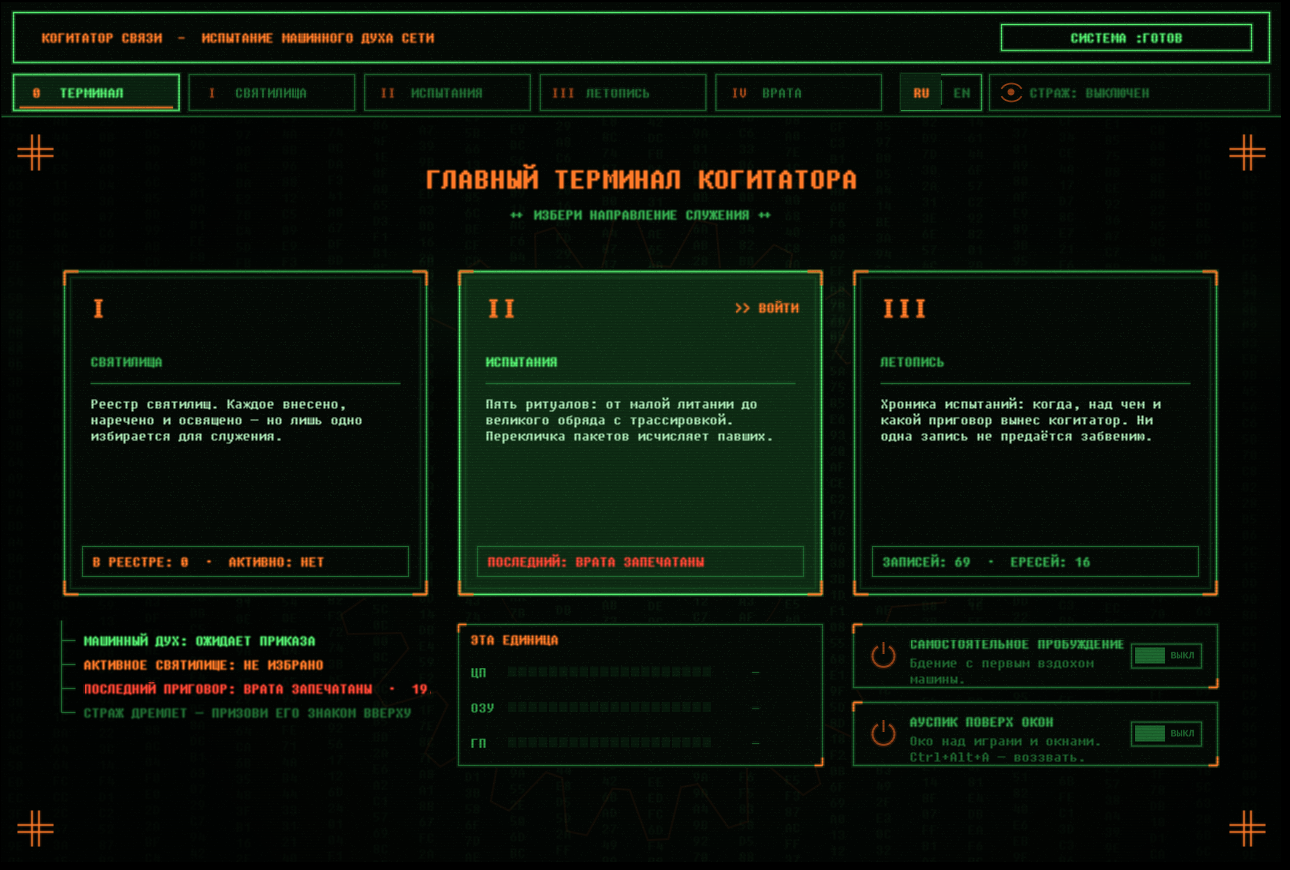
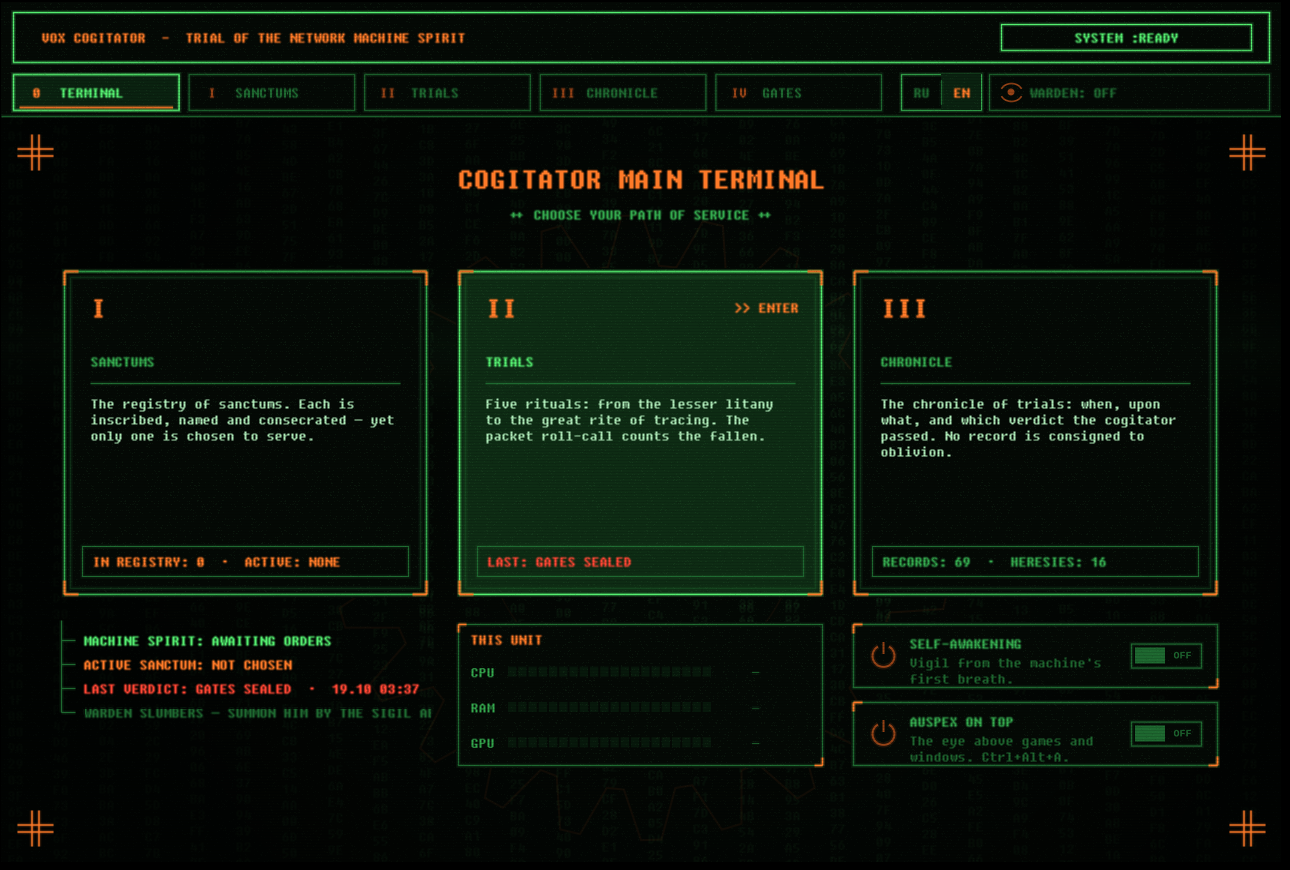
English README and screenshot

diff --git a/README.md b/README.md
@@ -1,27 +1,22 @@
-# Vox Cogitator · Когитатор Связи
+# Vox Cogitator
 
-Диагностика сети и VPN для Windows в духе старого ЭЛТ-терминала.
-Network & VPN diagnostics for Windows with a CRT soul.
+Network diagnostics for Windows with the soul of an old CRT terminal.
 
 ![Terminal](docs/home.png)
 
-Когитатор ищет, где рвётся связь: дома, у провайдера, на VPN-сервере или по пути до него. Ритуалы проверяют сеть и туннель и выносят приговор, сонар и Ауспик следят за пингом в фоне, Страж сообщает о падениях, летопись хранит историю. Сетевые настройки он не трогает — только смотрит.
+The cogitator finds where your connection breaks — your home network, your provider, a remote server or the path in between. Rituals test the link and pass a verdict, the sonar and the Auspex watch latency in the background, the Warden raises the alarm when the link falls, and the Chronicle keeps every verdict. It never changes your network settings — it only observes.
 
-It finds where the link breaks — at home, at the ISP, on the VPN server or along the path — and keeps a chronicle of every verdict. It never changes network settings.
+## Run
 
-## Запуск · Run
+Download `Cogitator.exe` from [Releases](../../releases) and run it — no installation needed (Windows 10/11).
+The file is unsigned, so SmartScreen may warn you: click "More info → Run anyway".
 
-Скачай `Cogitator.exe` из [Releases](../../releases) и запусти — установка не нужна (Windows 10/11).
-Файл не подписан: если SmartScreen предупредит, нажми «Подробнее → Выполнить в любом случае».
-
-Download `Cogitator.exe` from [Releases](../../releases) and run it. If SmartScreen warns: "More info → Run anyway".
-
-## Сборка · Build
+## Build
 
 ```
 dotnet build -c Release -o out
 ```
 
-## Лицензия · License
+## License
 
-[MIT](LICENSE) © KeRR · шрифты / fonts: [LICENSE-FONTS](assets/fonts/LICENSE-FONTS.md)
+[MIT](LICENSE) © KeRR · fonts: [LICENSE-FONTS](assets/fonts/LICENSE-FONTS.md)

diff --git a/assets/fonts/LICENSE-FONTS.md b/assets/fonts/LICENSE-FONTS.md
@@ -1,4 +1,4 @@
-# Fonts / Шрифты
+# Fonts
 
 Both fonts are embedded into `Cogitator.exe` as resources.
 
